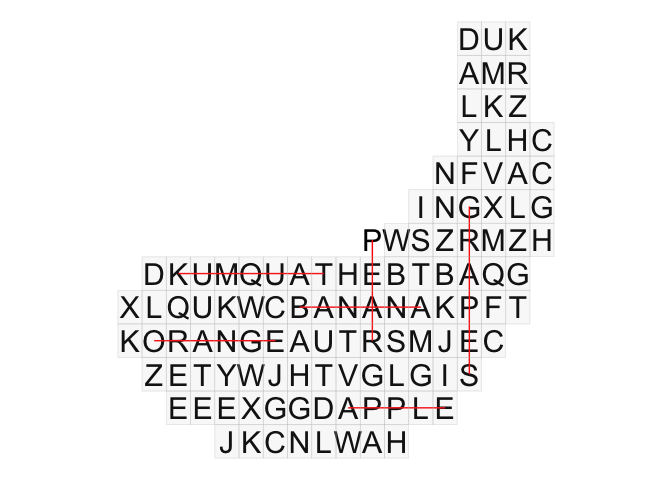
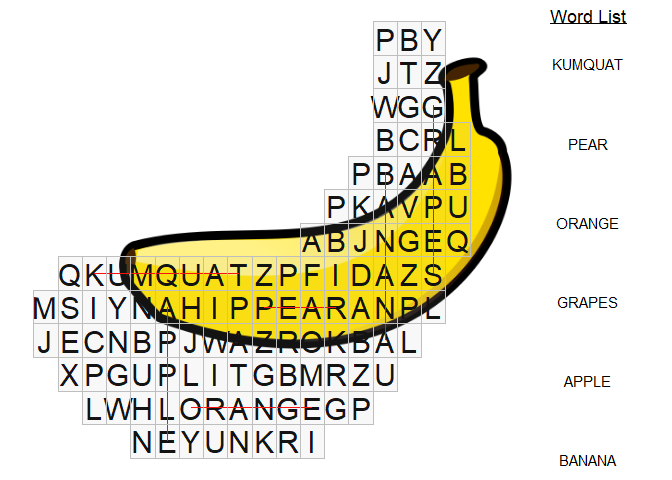
update docs/namespace/readme

diff --git a/readme.md b/readme.md
@@ -1,10 +1,9 @@
 
 <!-- README.md is generated from README.Rmd. Please edit that file -->
-worrrd <img src="man/figures/logo.png" align="right" />
-=======================================================
 
-Overview
---------
+# worrrd <img src="man/figures/logo.png" align="right" />
+
+## Overview
 
 Build word games using R. Ya hearrrd?
 
@@ -13,16 +12,14 @@ Features:
 -   Crossword Puzzle
 -   Wordsearch
 
-Installation
-------------
+## Installation
 
 ``` r
 install.packages("devtools")
 devtools::install_github("anthonypileggi/worrrd")
 ```
 
-Wordsearch
-----------
+## Wordsearch
 
 Create your very own custom wordsearch! Worrrd.
 
@@ -37,7 +34,7 @@ plot(x, solution = TRUE)
 #> Loading required package: ggplot2
 ```
 
-![](man/figures/README-wordsearch-easy-1.png)
+![](man/figures/README-wordsearch-easy-1.png)<!-- -->
 
 You can make it as hard as you want. Go bananas!
 
@@ -46,79 +43,57 @@ You can make it as hard as you want. Go bananas!
 library(datasets)
 x <- wordsearch(state.name, r = 50, c = 50)
 #> Found positions for 50/50 words.
-plot(x, solution = TRUE, letter_size = 2)
+plot(x, solution = TRUE, letter_size = 2, legend_size = 2)
 ```
 
-![](man/figures/README-wordsearch-hard-1.png)
+![](man/figures/README-wordsearch-hard-1.png)<!-- -->
 
 ### Custom Shapes
 
-Wait, what? You want to make it in the shape of a banana? I mean, that's kinda weird... but why not!
+Wait, what? You want to make it in the shape of a banana? I mean, that’s
+kinda weird… but why not!
 
 ``` r
 banana <- "https://upload.wikimedia.org/wikipedia/commons/9/96/Tux_Paint_banana.svg"
 words <- c("banana", "apple", "grapes", "orange", "pear", "kumquat")
 x <- wordsearch(words, r = 20, c = 20, image = banana)
-#> Warning: partial match of 'status' to 'status_code'
 #> Found positions for 6/6 words.
-plot(x, solution = TRUE)
+cowplot::ggdraw() +
+  cowplot::draw_image(banana) +
+  cowplot::draw_plot(plot(x, solution = TRUE))
 ```
 
-![](man/figures/README-wordsearch-banana-1.png)
+![](man/figures/README-wordsearch-banana-1.png)<!-- -->
 
 This lion was hungry. Can you find the antelope he ate?
 
 ``` r
 lion <- "https://us.123rf.com/450wm/miceking/miceking1506/miceking150601500/40903456-stock-vector-lion-silhouette.jpg"
 x <- wordsearch("antelope", r = 40, c = 40, image = lion)
-#> Warning: partial match of 'status' to 'status_code'
 #> Found positions for 1/1 words.
 plot(x, solution = TRUE, letter_size = 2)
 ```
 
-![](man/figures/README-wordsearch-lion-1.png)
+![](man/figures/README-wordsearch-lion-1.png)<!-- -->
 
-OMG so many animals!! I can't pick just one!!
+## Crossword Puzzle
 
-``` r
-library(gridExtra)
-animals <- silohettes()[c("giraffe", "rabbit", "bear", "butterfly")]
-puzzles <- purrr::map(animals, ~wordsearch("awesome", r = 40, c = 40, image = .x))
-#> Warning: partial match of 'status' to 'status_code'
-#> Found positions for 1/1 words.
-#> Warning: partial match of 'status' to 'status_code'
-#> Found positions for 1/1 words.
-#> Warning: partial match of 'status' to 'status_code'
-#> Found positions for 1/1 words.
-#> Warning: partial match of 'status' to 'status_code'
-#> Found positions for 1/1 words.
-plots <- purrr::map(puzzles, ~plot(.x, solution = TRUE, letter_size = 2))
-do.call("grid.arrange", c(plots, ncol = 2, nrow = 2))
-```
-
-![](man/figures/README-wordsearch-animals-1.png)
-
-Crossword Puzzle
-----------------
-
-Oh, you're one of the more sophicated types that craves a crossword puzzle? Worrrd.
+Oh, you’re one of the more sophisticated types that craves a crossword
+puzzle? Worrrd.
 
 ``` r
 words <- row.names(state.x77)
 clues <- paste0(state.region, " state covering ", scales::comma(state.x77[, "Area"]), " square miles.")
 x <- crossword(words, clues, r = 40, c = 40)
-#> Could not place the following words:
-#> 
-#> NORTHCAROLINA
-#> Found positions for 49/50 words.
+#> Found positions for 50/50 words.
 x
 #> Crossword Puzzle
-#> Contains 49 clues.
-#> There are 26 across and 23 down.
+#> Contains 50 clues.
+#> There are 27 across and 23 down.
 ```
 
 ``` r
 plot(x, solution = TRUE)
 ```
 
-![](man/figures/README-crossword-1.png)
+![](man/figures/README-crossword-1.png)<!-- -->
